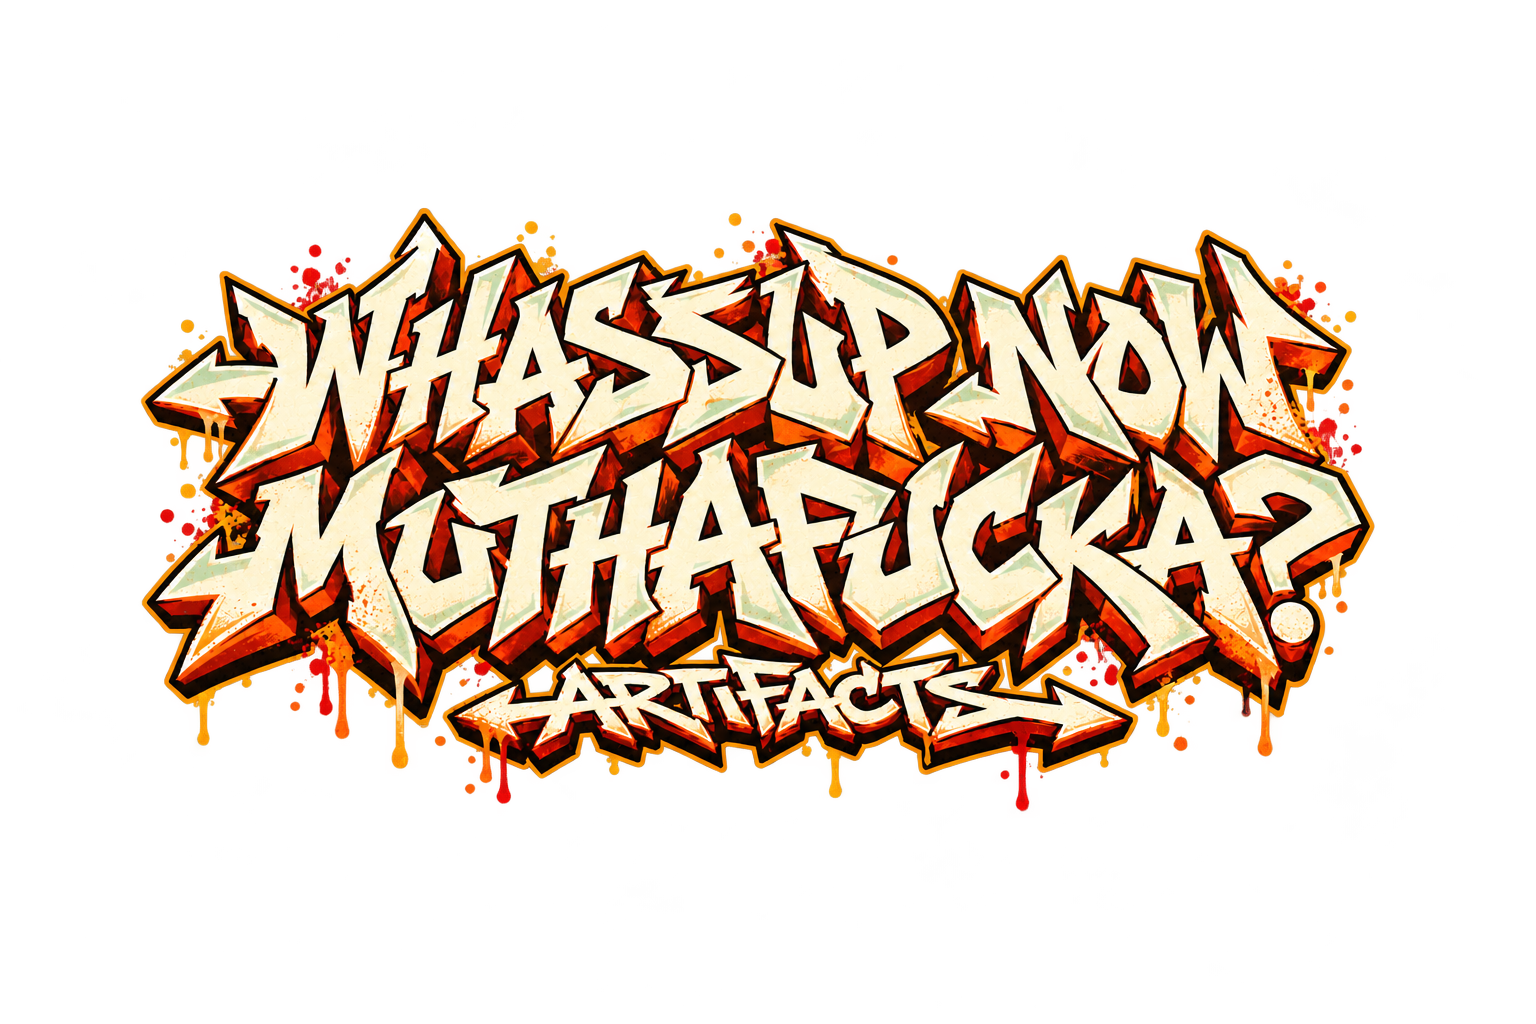
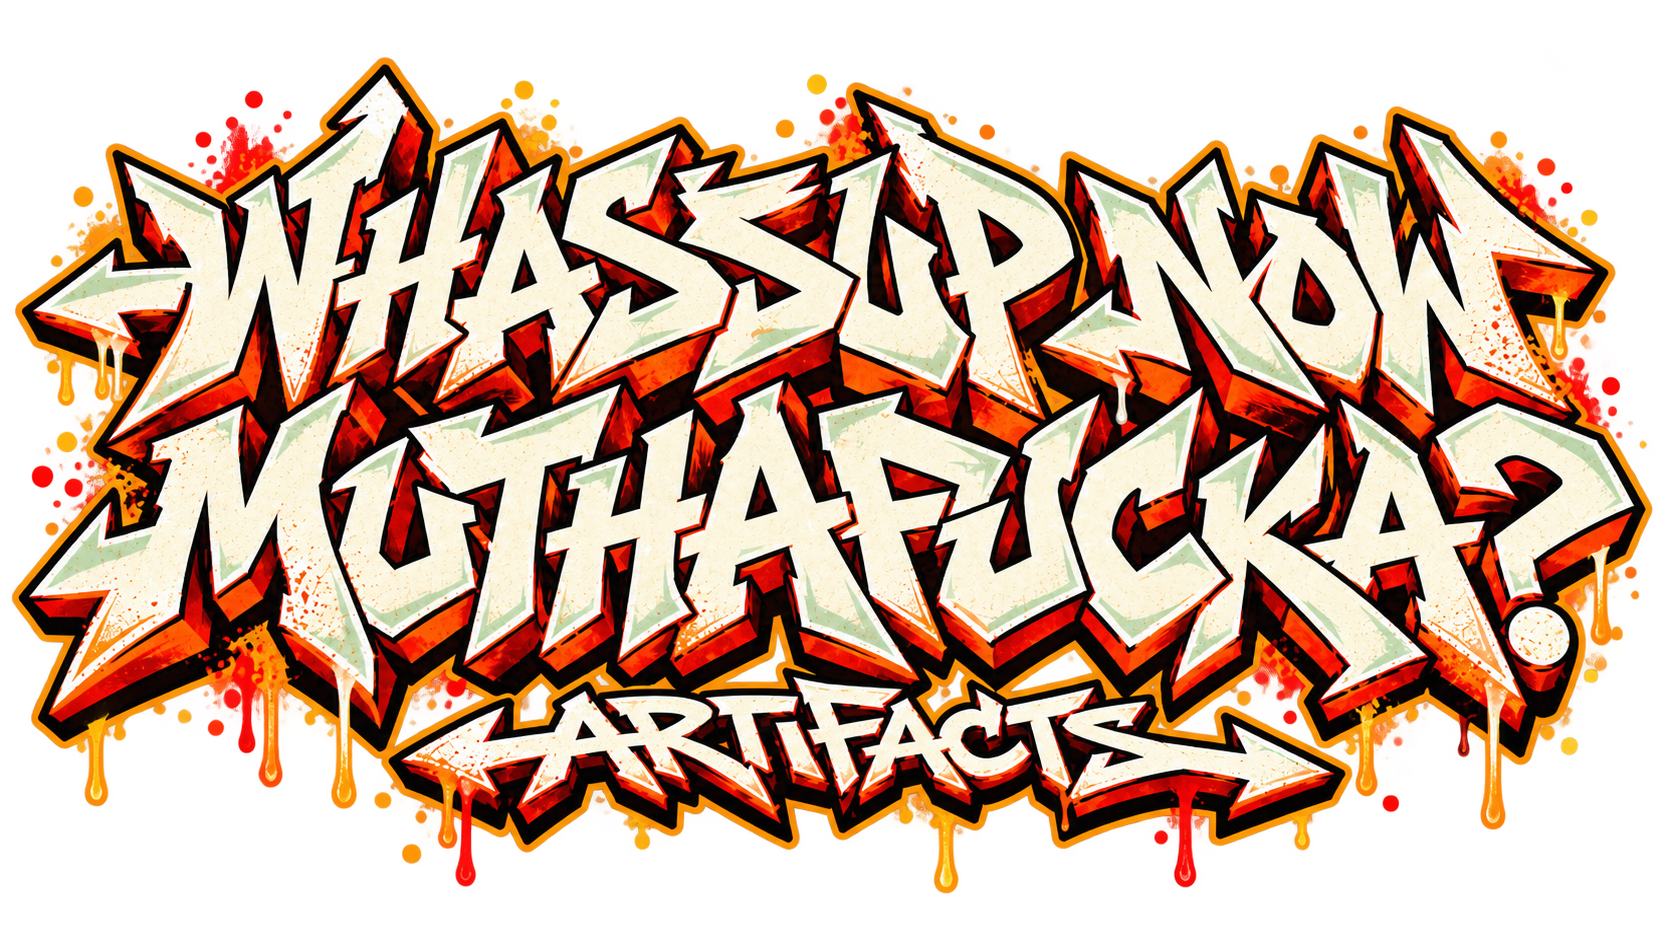
Enlarge Diamond and Artifacts graffiti compositions (v22.40)

diff --git a/scripts/verify_named_art_first.py b/scripts/verify_named_art_first.py
@@ -1,0 +1,23 @@
+from pathlib import Path
+import json,hashlib,sys
+from PIL import Image
+from approved_named_art_first import F,historical_named_art_first_file
+R=Path(__file__).resolve().parents[1];sha=lambda b:hashlib.sha256(b).hexdigest()
+for p,h in F['protected'].items():assert sha((R/p).read_bytes())==h,p
+assert len(json.loads((R/'tracks.json').read_text()))==521
+for a in F['assets']:
+ p=R/a['path'];assert sha(p.read_bytes())==a['afterSHA256'] and a['afterSHA256']!=a['beforeSHA256']
+ with Image.open(p) as im:
+  im.load();assert im.mode=='RGBA' and list(im.size)==a['dimensions'] and max(im.size)<=2400
+  assert sha(im.tobytes())==a['rgbaSHA256'];assert im.getchannel('A').getextrema()[0]==0
+  assert any(min(r,g,b)>225 and alpha>240 for r,g,b,alpha in im.getdata()),'White paint lost'
+ if '--source-only' not in sys.argv:
+  D=R/'dist';html=(D/'tracks'/(a['id']+'.html')).read_text();assert a['path'] in html and 'Original graffiti' in html and 'DJ Naoyaman' in html
+  with Image.open(D/a['path']) as im:assert im.mode=='RGBA' and im.size==tuple(a['dimensions'])
+  with Image.open(D/'og'/(a['id']+'.jpg')) as im:assert im.size==(1200,630)
+raw=(R/'releases.json').read_bytes();historical_named_art_first_file('releases.json',raw)
+try:historical_named_art_first_file('releases.json',raw+b' ')
+except AssertionError:pass
+else:raise AssertionError('Unapproved release mutation accepted')
+assert historical_named_art_first_file('unrelated',b'unchanged')==b'unchanged'
+print('Two image-only replacements; unchanged 521 records/runtime; exact RGBA, white paint, transparency, external credit and OGP PASS. Lettering/style visually reviewed separately.')

diff --git a/scripts/approved_named_art_first.py b/scripts/approved_named_art_first.py
@@ -1,0 +1,10 @@
+"""Only the release version is normalized; replacement assets checked separately."""
+from pathlib import Path
+import json,hashlib
+R=Path(__file__).resolve().parents[1]
+F=json.loads((R/'scripts/fixtures/approved-named-art-first.json').read_text())
+def historical_named_art_first_file(path,data):
+ if path!='releases.json':return data
+ assert hashlib.sha256(data).hexdigest()==F['afterReleaseSHA256'],'Unapproved art release drift'
+ obj=json.loads(data);obj['version']=F['beforeVersion'];before=(json.dumps(obj,ensure_ascii=False,indent=2)+'\n').encode()
+ assert hashlib.sha256(before).hexdigest()==F['beforeReleaseSHA256'];return before

diff --git a/scripts/approved_four_mix.py b/scripts/approved_four_mix.py
@@ -5,6 +5,8 @@ R=Path(__file__).resolve().parents[1]
 F=json.loads((R/'scripts/fixtures/approved-four-mix.json').read_text())
 sha=lambda b:hashlib.sha256(b).hexdigest()
 def historical_four_mix_file(path,data):
+ from approved_named_art_first import historical_named_art_first_file
+ data=historical_named_art_first_file(path,data)
  c=F['files'].get(path)
  if c is None:return data
  assert sha(data)==c['afterSHA256'],'Unapproved four-track drift: '+path
